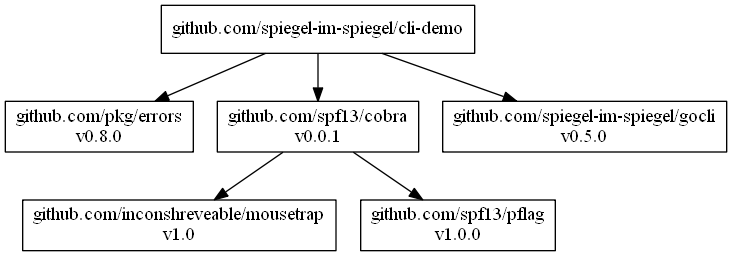
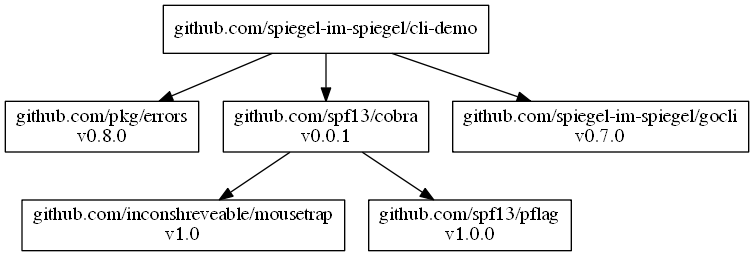
Update gocli to v0.7.0

diff --git a/cmd/cmd_test.go b/cmd/cmd_test.go
@@ -23,8 +23,8 @@ func TestShowNormal(t *testing.T) {
 		out := new(bytes.Buffer)
 		errOut := new(bytes.Buffer)
 		ui := rwi.New(
-			rwi.Writer(out),
-			rwi.ErrorWriter(errOut),
+			rwi.WithWriter(out),
+			rwi.WithErrorWriter(errOut),
 		)
 		exit := Execute(ui, c.args)
 		if exit != exitcode.Normal {

diff --git a/main.go b/main.go
@@ -10,9 +10,9 @@ import (
 func main() {
 	cmd.Execute(
 		rwi.New(
-			rwi.Reader(os.Stdin),
-			rwi.Writer(os.Stdout),
-			rwi.ErrorWriter(os.Stderr),
+			rwi.WithReader(os.Stdin),
+			rwi.WithWriter(os.Stdout),
+			rwi.WithErrorWriter(os.Stderr),
 		),
 		os.Args[1:],
 	).Exit()
